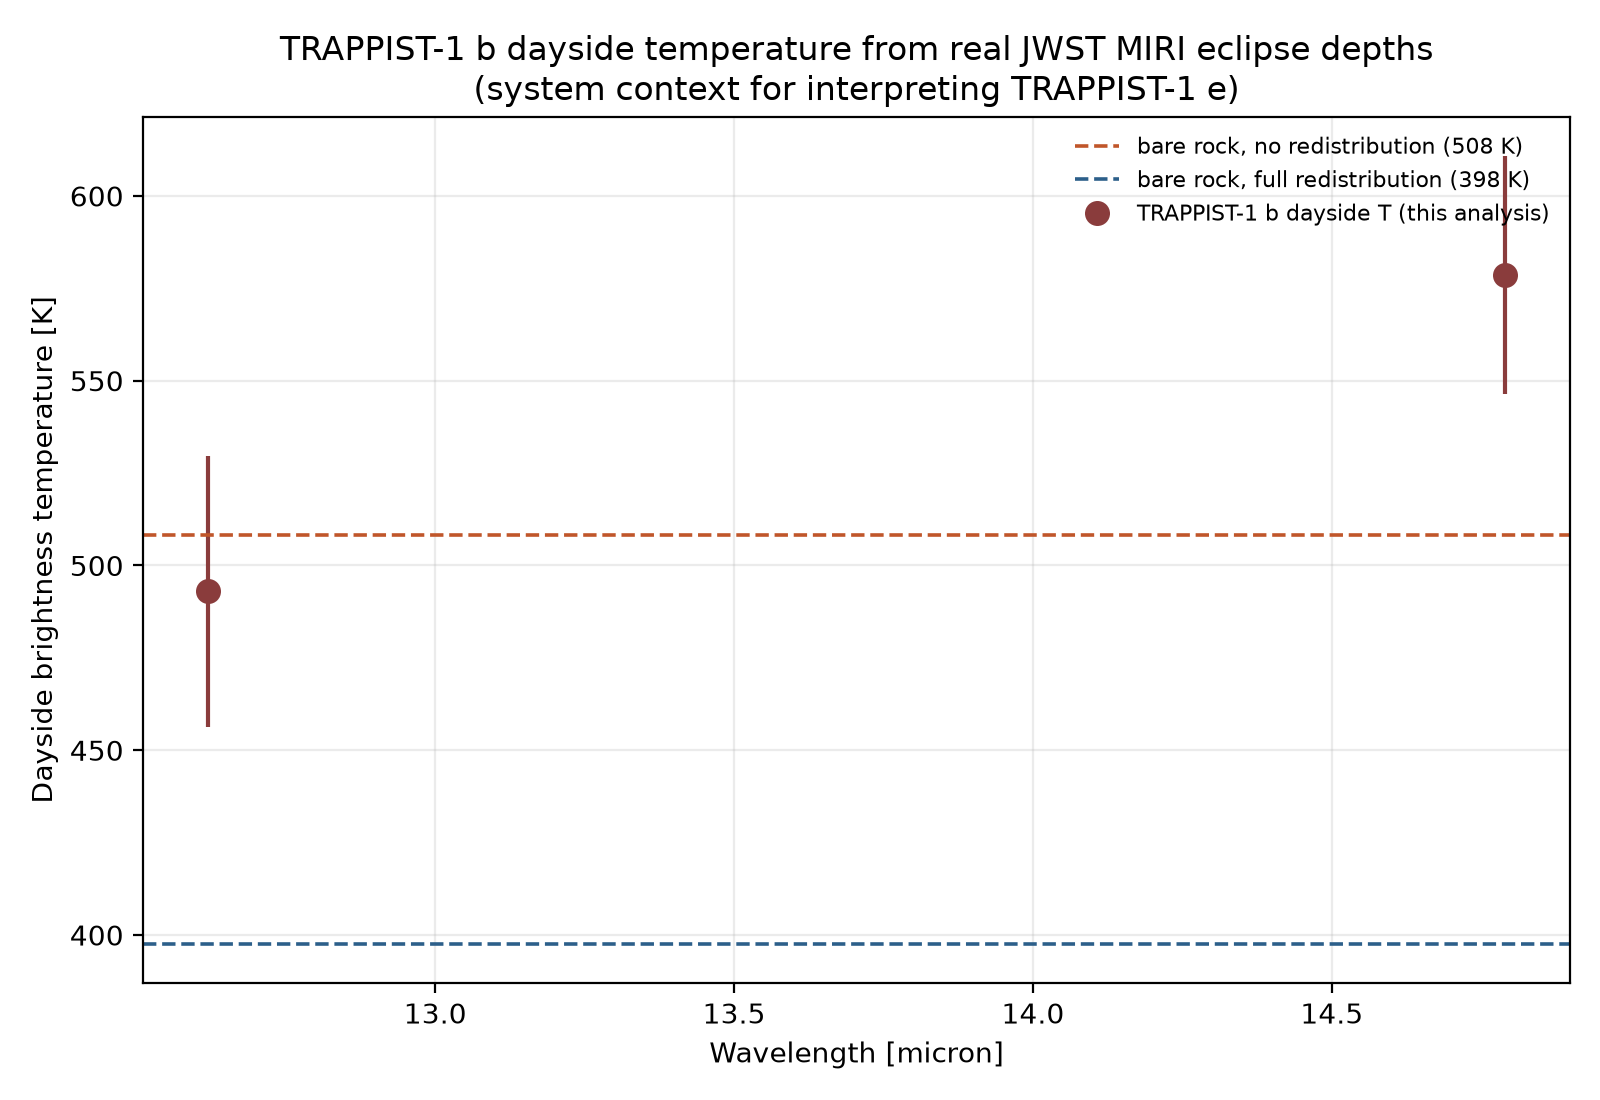
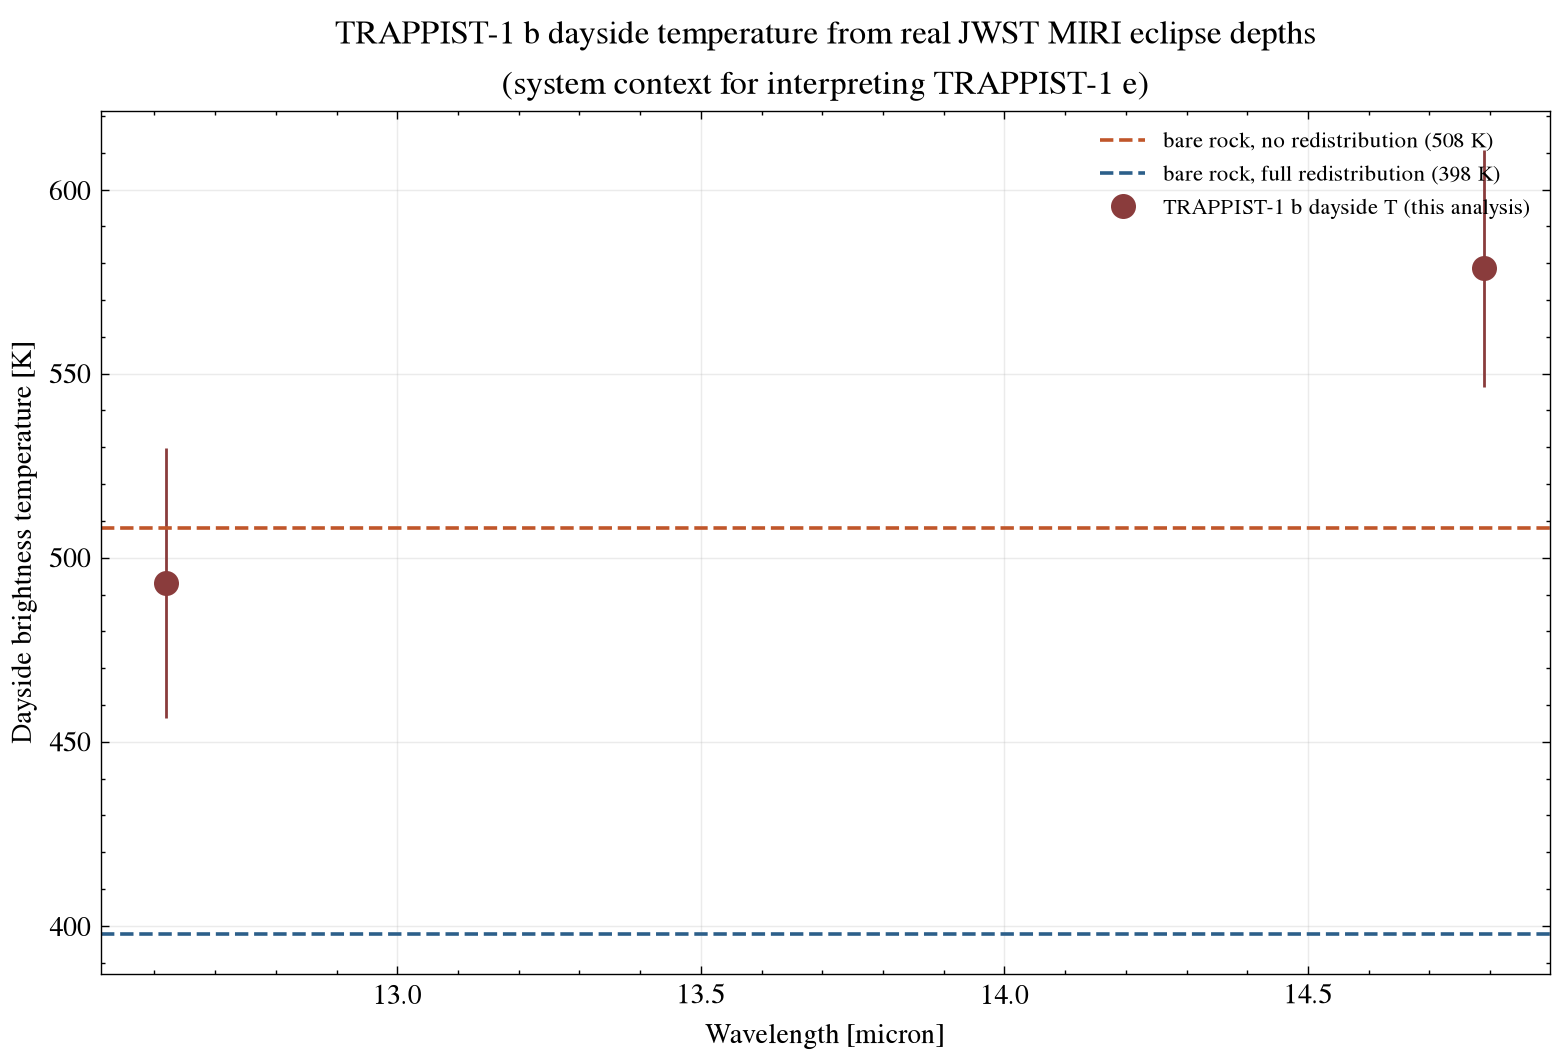
Apply scienceplots paper-style figure formatting
Uses the scienceplots 'science' + 'no-latex' matplotlib style for a
cleaner, publication-style look (serif-leaning fonts, inward ticks, minor
tick marks) without a LaTeX dependency. Regenerates the figure with
identical underlying data/statistics -- only the visual styling changed.

Changed region(s): [[0.0, 0.0, 1.0, 0.9962]]

diff --git a/scripts/analyze_spectrum.py b/scripts/analyze_spectrum.py
@@ -22,8 +22,11 @@ import csv
 from pathlib import Path
 
 import matplotlib.pyplot as plt
+import scienceplots  # noqa: F401 (registers 'science' style)
 import numpy as np
 from scipy.optimize import brentq
+
+plt.style.use(["science", "no-latex"])
 
 DATA_DIR = Path(__file__).resolve().parents[1] / "data"
 FIG_DIR = Path(__file__).resolve().parents[1] / "figures"
